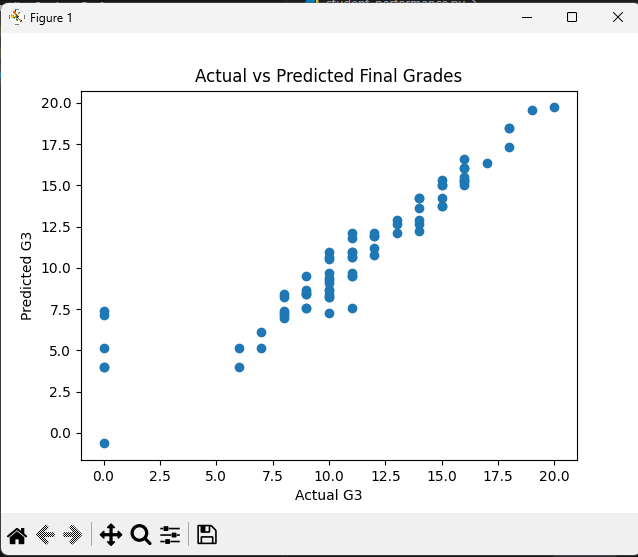
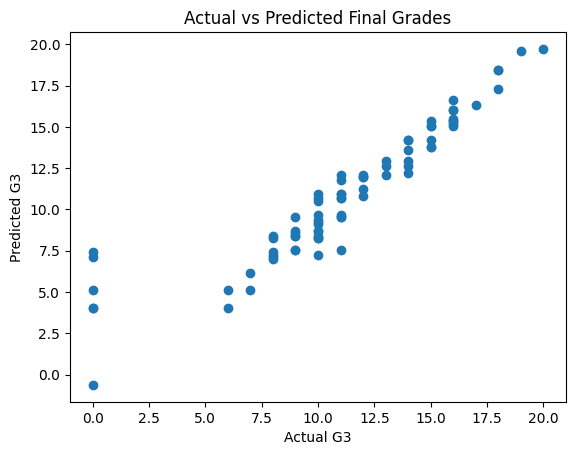
Refactor code structure for improved readability and maintainability

diff --git a/student_performance.py b/student_performance.py
@@ -1,44 +1,52 @@
+from pathlib import Path
+
 import pandas as pd
 import matplotlib.pyplot as plt
 from sklearn.model_selection import train_test_split
 from sklearn.linear_model import LinearRegression
-from sklearn.metrics import r2_score
-from sklearn.metrics import mean_absolute_error
-maths = pd.read_excel("Maths.csv")
-portuguese = pd.read_excel("Portuguese.csv")
+from sklearn.metrics import mean_absolute_error, r2_score
 
 
-x = maths[["G1", "G2"]]
-y = maths["G3"]
-x_train, x_test, y_train, y_test = train_test_split(
-    x, y, test_size=0.2, random_state=20
-)
+def main():
+    project_dir = Path(__file__).resolve().parent
+    maths = pd.read_excel(project_dir / "Maths.xlsx")
 
-print("X train:", x_train.shape)
-print("X test:", x_test.shape)
-print("Y train:", y_train.shape)
-print("Y test:", y_test.shape)
+    features = maths[["G1", "G2"]]
+    target = maths["G3"]
+    x_train, x_test, y_train, y_test = train_test_split(
+        features, target, test_size=0.2, random_state=20
+    )
 
-model = LinearRegression()
-model.fit(x_train, y_train)
+    print("X train:", x_train.shape)
+    print("X test:", x_test.shape)
+    print("Y train:", y_train.shape)
+    print("Y test:", y_test.shape)
 
-y_pred = model.predict(x_test)
-print(y_pred[:10])
+    model = LinearRegression()
+    model.fit(x_train, y_train)
 
-r2 = r2_score(y_test, y_pred)
-print("R² Score:", r2)
+    predictions = model.predict(x_test)
+    print(predictions[:10])
 
-mae = mean_absolute_error(y_test, y_pred)
-print("Mean Absolute Error:", mae)
+    r2 = r2_score(y_test, predictions)
+    print("R² Score:", r2)
 
-plt.scatter(y_test, y_pred)
-plt.xlabel("Actual G3")
-plt.ylabel("Predicted G3")
-plt.title("Actual vs Predicted Final Grades")
-plt.show()
+    mae = mean_absolute_error(y_test, predictions)
+    print("Mean Absolute Error:", mae)
 
-new_student = [[12, 14]]
+    figure, axis = plt.subplots()
+    axis.scatter(y_test, predictions)
+    axis.set_xlabel("Actual G3")
+    axis.set_ylabel("Predicted G3")
+    axis.set_title("Actual vs Predicted Final Grades")
+    figure.savefig(project_dir / "actual_vs_final.png", bbox_inches="tight")
+    plt.close(figure)
+    print("Plot saved to:", project_dir / "actual_vs_final.png")
 
-prediction = model.predict(new_student)
+    new_student = pd.DataFrame({"G1": [12], "G2": [14]})
+    prediction = model.predict(new_student)
+    print("Predicted Final Grade:", prediction[0])
 
-print("Predicted Final Grade:", prediction[0])
+
+if __name__ == "__main__":
+    main()

diff --git a/README.md b/README.md
@@ -8,22 +8,22 @@ This project uses the Student Performance dataset to build a simple regression m
 
 The workflow includes:
 
-1. Loading the Mathematics and Portuguese datasets.
+1. Loading the Mathematics dataset.
 2. Exploring the dataset structure.
 3. Selecting `G1` and `G2` as input features.
 4. Using `G3` as the target variable.
 5. Splitting the data into training and testing sets.
 6. Training a linear regression model.
-7. Evaluating the model using R² Score and Mean Squared Error.
+7. Evaluating the model using R² Score and Mean Absolute Error.
 8. Comparing actual and predicted final grades with a scatter plot.
 9. Making a prediction for a new set of grades.
 
 ## Dataset
 
-The project uses two CSV files:
+The repository includes two Excel workbooks:
 
-- `Maths.csv` — Mathematics student performance data.
-- `Portuguese.csv` — Portuguese student performance data.
+- `Maths.xlsx` — Mathematics student performance data used by the model.
+- `Portuguese.xlsx` — Portuguese student performance data, included for reference.
 
 The Mathematics dataset contains **397 students** and **33 columns**.
 
@@ -87,33 +87,19 @@ The trained model achieved:
 
 This means the model explains approximately **84.78% of the variation** in the final grades for the test data.
 
-The Mean Squared Error obtained during testing was approximately:
+The Mean Absolute Error obtained during testing was approximately:
 
 **1.1042**
 
 ## Actual vs Predicted Grades
 
-The following graph compares the students' actual final grades (`G3`) with the grades predicted by the model.
-
-> **Add your graph screenshot here.**
-
-Save your screenshot in the repository, for example:
-
-```text
-images/actual-vs-predicted.png
-```
-
-Then use this Markdown:
-
-```markdown
-![Actual vs Predicted Final Grades](images/actual-vs-predicted.png)
-```
-
 ### Graph
 
-![Actual vs Predicted Final Grades](images/actual-vs-predicted.png)
+![Actual vs Predicted Final Grades](actual_vs_final.png)
 
 The points show that the predicted grades generally follow the actual `G3` values. The closer the points are to a straight diagonal relationship, the better the predictions match the actual grades.
+
+Running the program regenerates `actual_vs_final.png` in the project directory.
 
 ## Example Prediction
 
@@ -135,13 +121,11 @@ This can be rounded for presentation:
 
 ```text
 Predict-Student-Performance/
-│
-├── Maths.csv
-├── Portuguese.csv
+├── Maths.xlsx
+├── Portuguese.xlsx
+├── actual_vs_final.png
 ├── student_performance.py
-├── README.md
-└── images/
-    └── actual-vs-predicted.png
+└── README.md
 ```
 
 ## How to Run
@@ -165,7 +149,7 @@ pip install pandas scikit-learn matplotlib openpyxl
 python student_performance.py
 ```
 
-The program will load the dataset, train the model, display the evaluation results, and generate the actual-vs-predicted graph.
+The program will load the Mathematics workbook, train the model, display the evaluation results, save the actual-vs-predicted graph, and make an example prediction.
 
 ## Key Learning Outcomes
 
